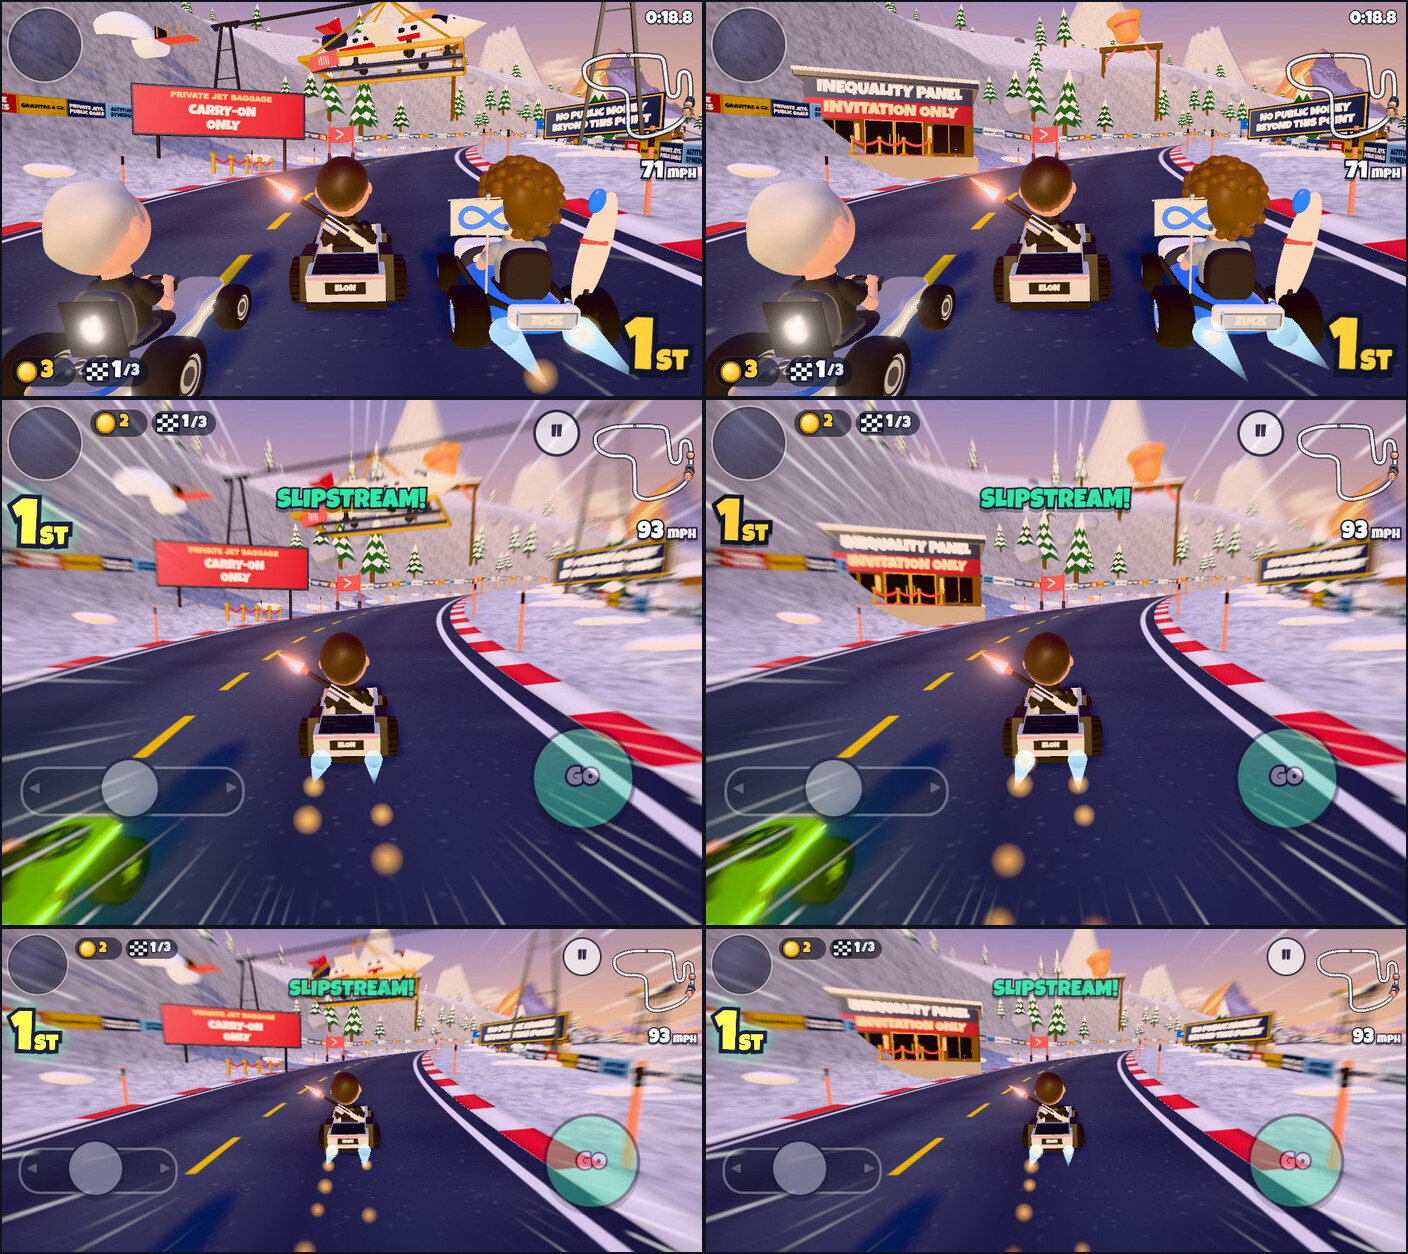
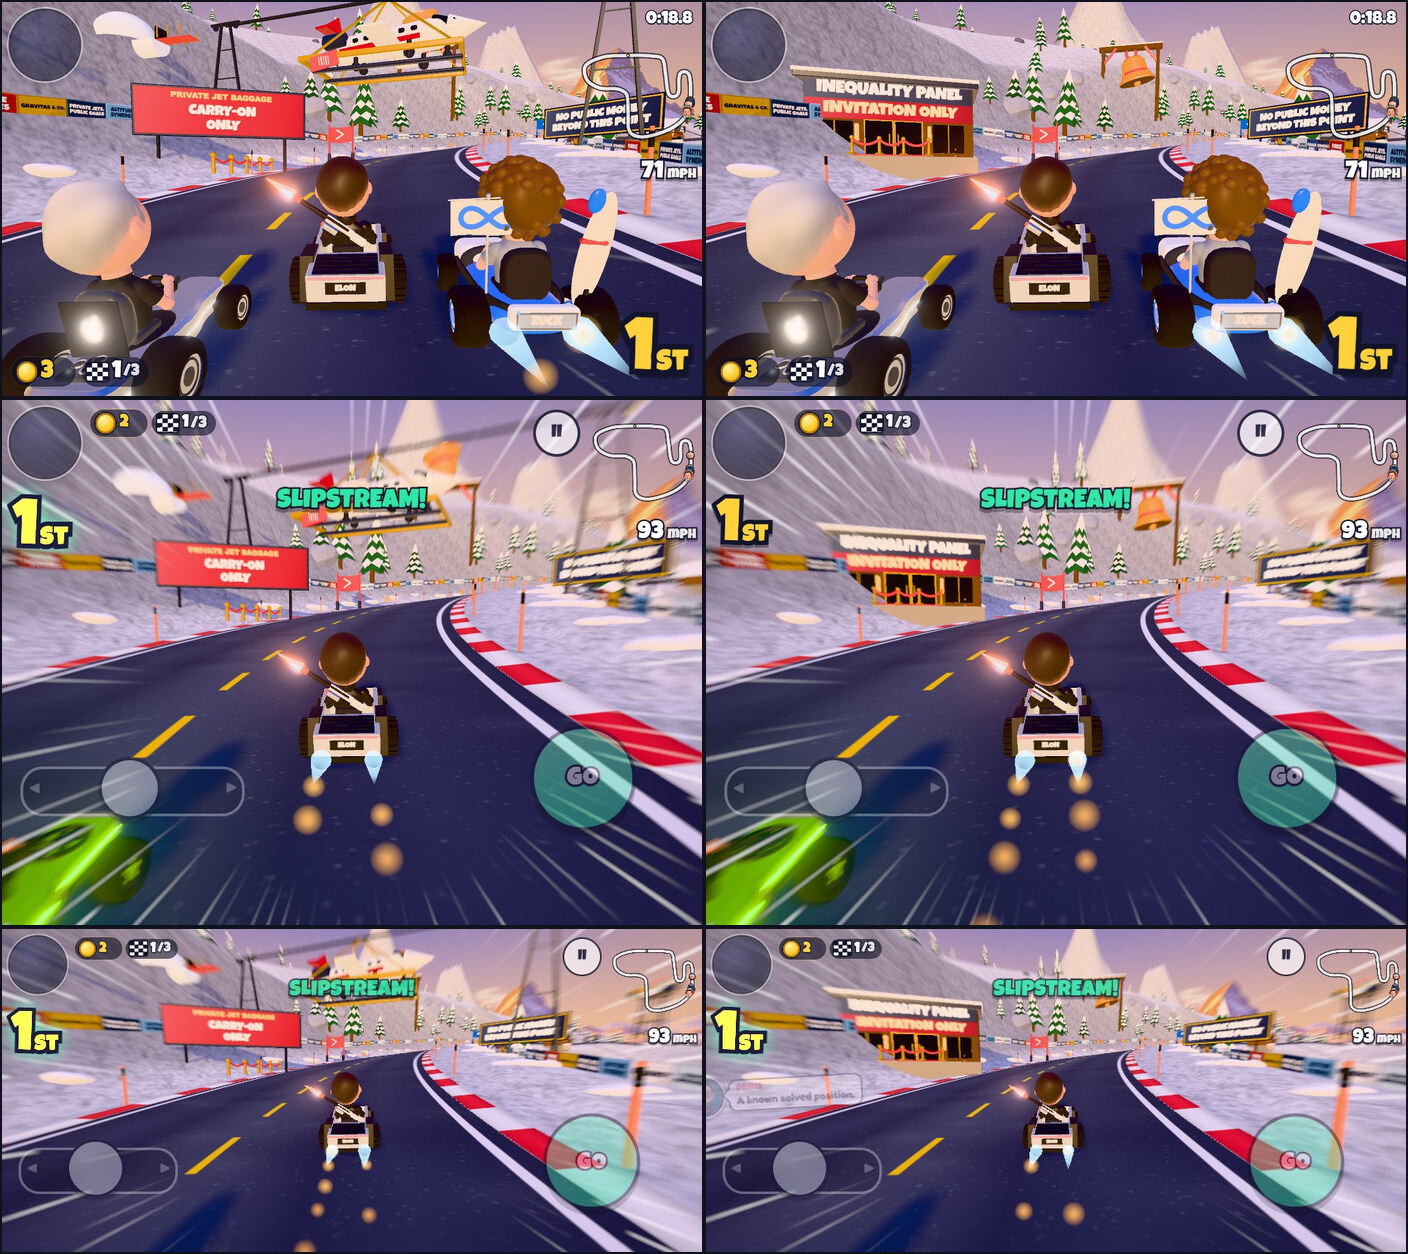
Keep the slalom cowbell hanging from its pivot (#322)

diff --git a/src/tracks/davos.js b/src/tracks/davos.js
@@ -390,7 +390,13 @@ function dress(ctx) {
   bell.updateMatrixWorld(true);
   group.attach(swing);
   bake.add(bell, false);
-  anim.push((dt, time) => { swing.rotation.z = 0.24 * Math.sin(time * 2.6); });
+  // attach() keeps the mountain-facing transform, which may include a half-turn
+  // in the Euler Z angle. Swing about the hanging bell’s own pivot axis.
+  const rest = swing.quaternion.clone(), bellAxis = new THREE.Vector3(0, 0, 1);
+  anim.push((dt, time) => {
+    swing.quaternion.copy(rest);
+    swing.rotateOnAxis(bellAxis, 0.24 * Math.sin(time * 2.6));
+  });
   // A velvet rope across the hotel doors is the punchline to this session listing.
   {
     const p = faceDriver(sc.beside(16.22, 1, 7.0), 50);
